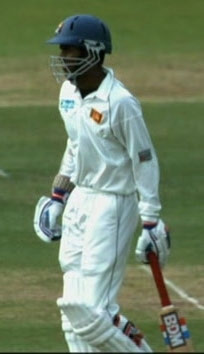
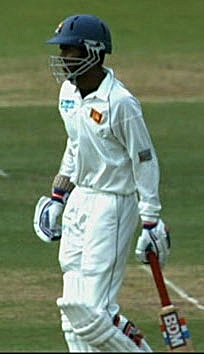
fixed error in sharpening - output image was input image before

diff --git a/gradient.m b/gradient.m
@@ -8,7 +8,7 @@ G_w = w*h; % G Width
 G_h = h*(w-1)+(h-1)*w; % G height
 ind_i = repmat([1:G_h],2,1);
 ind_i= ind_i(:);
-val = [repmat([-1 1], 1, h*(w-1)) repmat([1 -1], 1, (h-1)*w)]';
+val = 0.5*[repmat([-1 1], 1, h*(w-1)) repmat([1 -1], 1, (h-1)*w)]';
 ind_j = [];
 
 % Compute the first part of g vector

diff --git a/sharpening.m b/sharpening.m
@@ -13,5 +13,4 @@ U =(G'*G +cu*I)\(cs*G'*g + cu*Ubar);
 
 %%
 out_image =uint8(reshape(U,h,w,d)*255);
-
-imwrite(image,output_img_filename);
+imwrite(out_image,output_img_filename);
